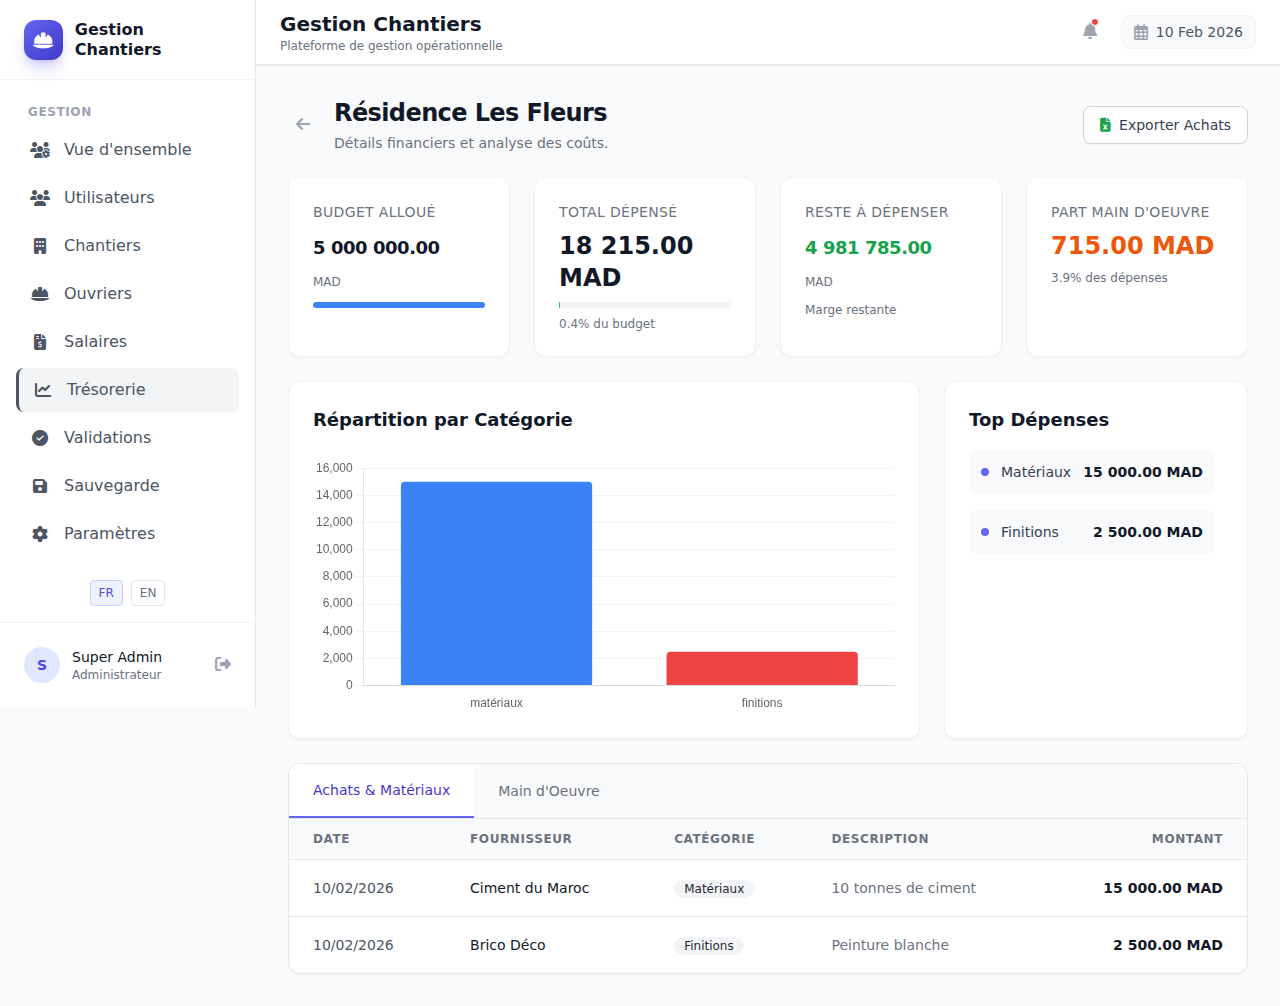
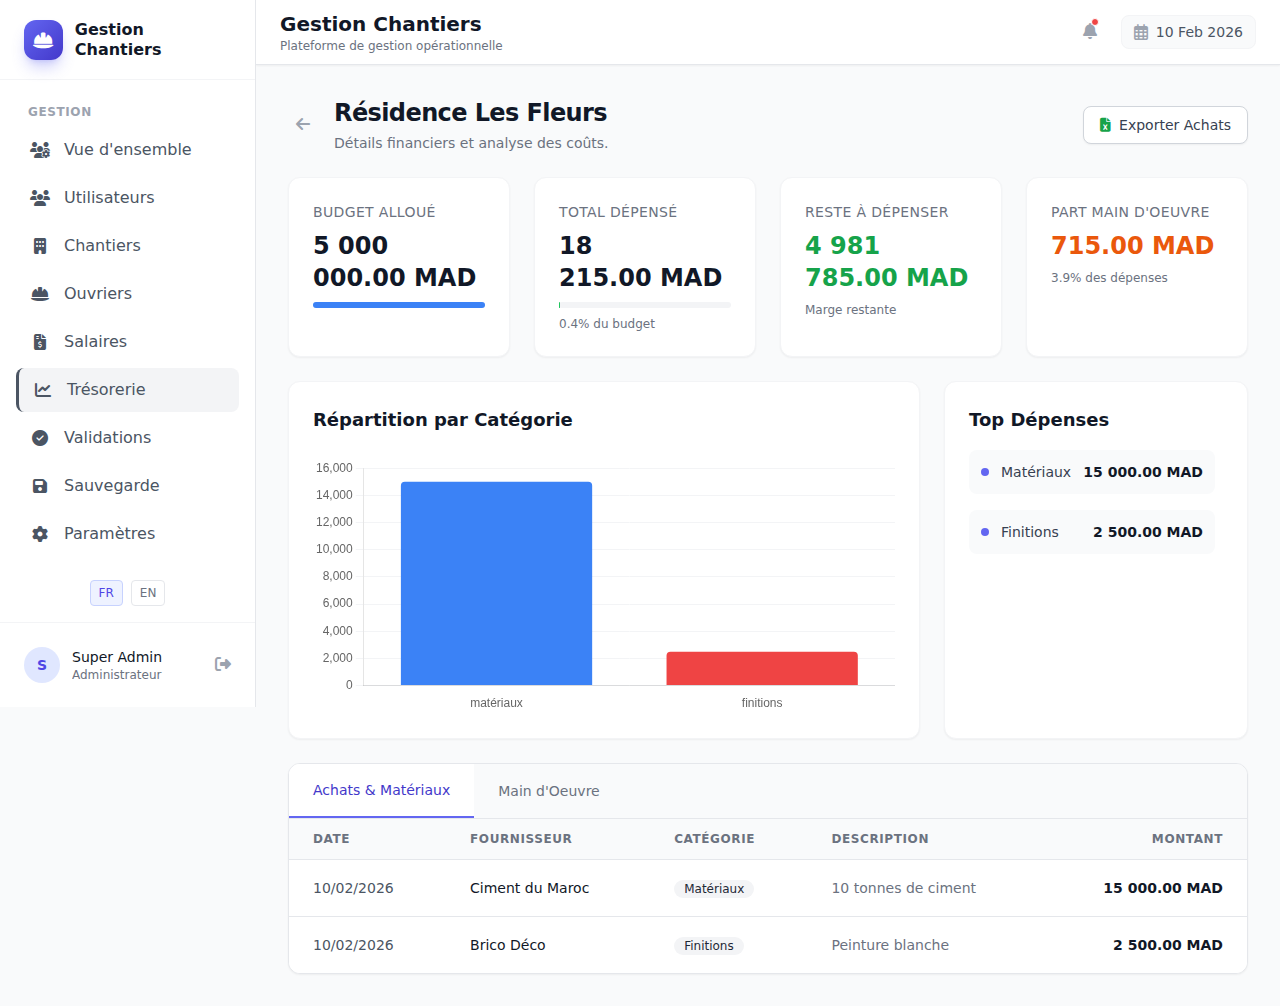
Fix currency formatting to keep amounts on one line

Changed region(s): [[0.625, 0.2157, 0.75, 0.3082], [0.25, 0.2157, 0.375, 0.3082], [0.4375, 0.2157, 0.5625, 0.3082]]

diff --git a/utils/__init__.py b/utils/__init__.py
@@ -55,15 +55,12 @@ def save_photo(file, upload_folder='static/uploads'):
 
 def format_currency(value):
     if value is None:
-        return Markup("0 MAD")
+        return Markup("0.00 MAD")
 
     formatted_value = f"{value:,.2f}".replace(',', ' ')
 
-    # If the value is large (>= 100,000), reduce font size and break the currency to the next line
-    if value >= 100000:
-        return Markup(f"<span class='text-lg tracking-tight font-bold'>{formatted_value}</span><br><span class='text-xs text-gray-500 font-normal'>MAD</span>")
-
-    return Markup(f"{formatted_value} MAD")
+    # Return single line string with non-breaking space
+    return Markup(f"{formatted_value}&nbsp;MAD")
 
 def format_percentage(value):
     if value is None:
